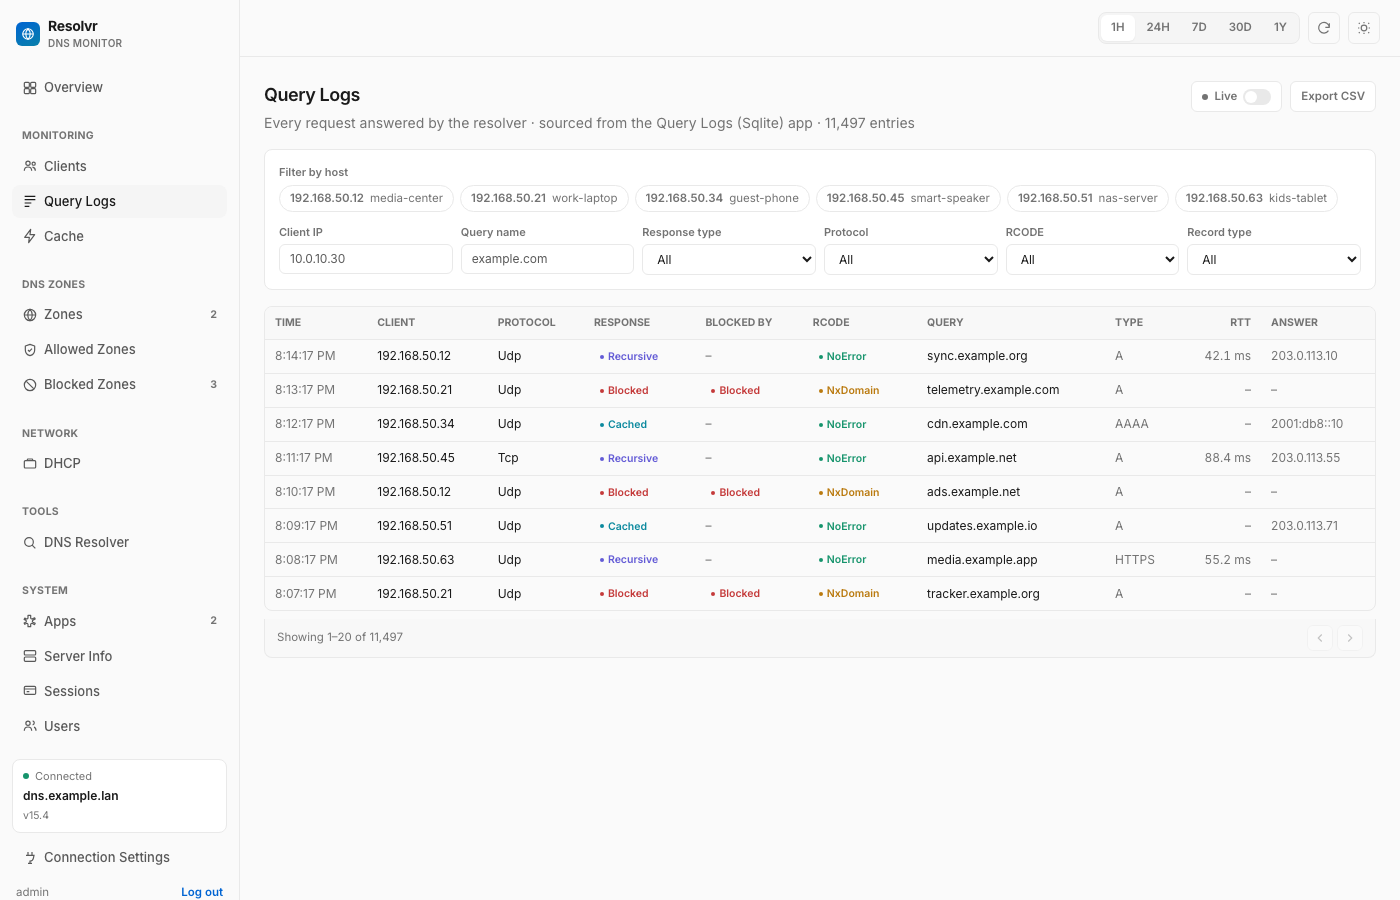
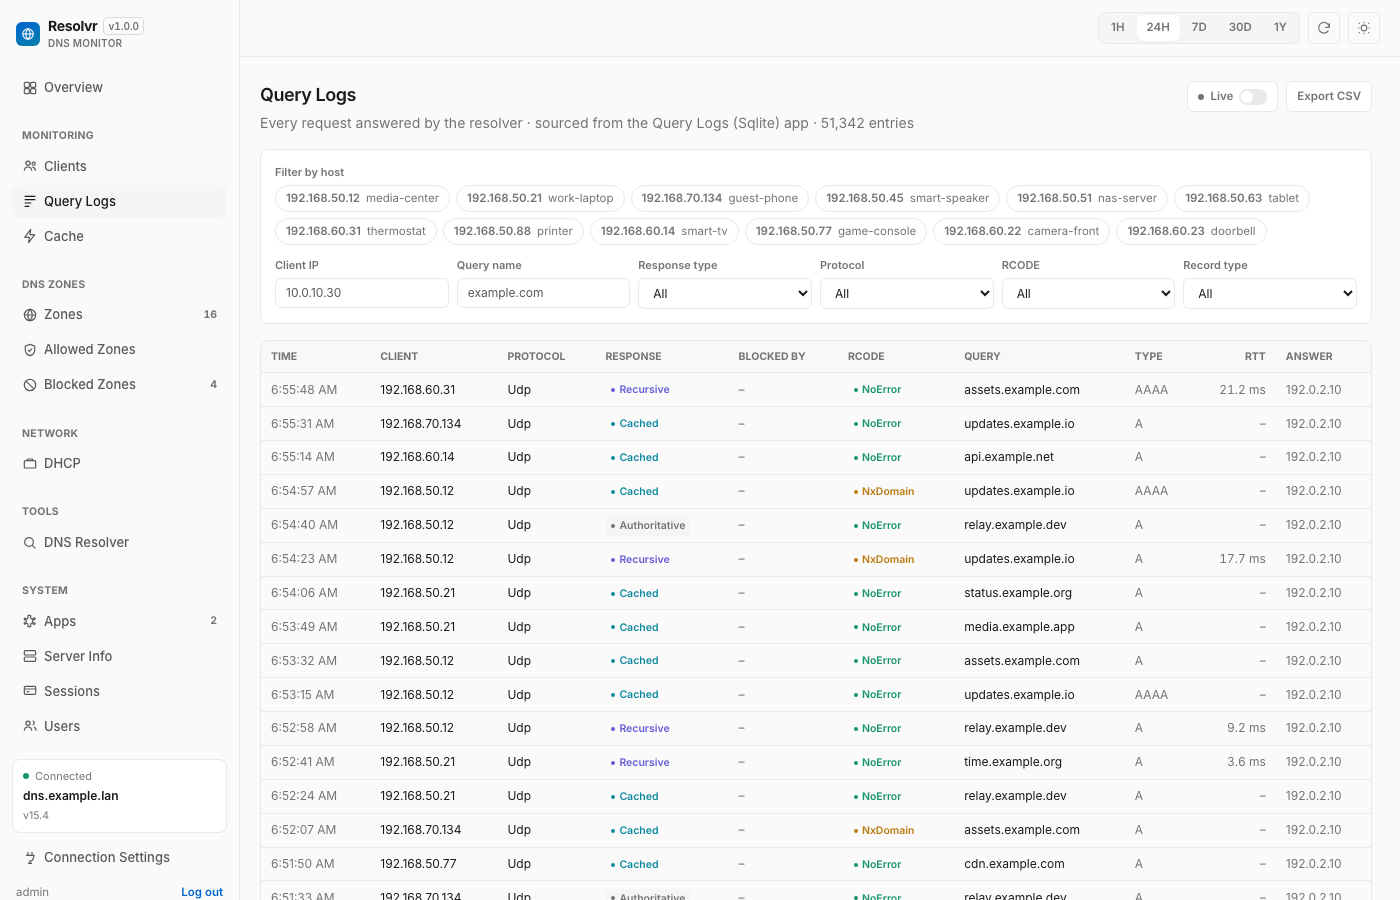
Release 1.0.0: version bump, refreshed README and screenshots (fabricated data), major-version image tag

diff --git a/README.md b/README.md
@@ -7,26 +7,38 @@ A monitoring dashboard for [Technitium DNS Server](https://technitium.com/dns/) 
 
 `dns` · `technitium` · `dns-server` · `dashboard` · `self-hosted` · `homelab` · `monitoring` · `dns-monitoring` · `ad-blocking` · `vue3` · `typescript` · `docker` · `sqlite` · `express`
 
-![Overview dashboard](docs/screenshots/overview.png)
+![Overview dashboard, Traffic tab](docs/screenshots/overview.png)
 
 ## What it does
 
-- **Live monitoring** — query volume over time, query types, top clients, top domains, top blocked domains, cache contents, DHCP leases and zones, all read from your Technitium server.
-- **Query Logs** with real filtering — client IP, query name, response type, protocol, RCODE, record type — plus a per-host "allowed vs. blocked" breakdown and a live-tail toggle.
-- **Blocked Zones as an actual tree**, not a flat list — Technitium's blocked-zone API is a tree browser, so Resolvr lazily expands it instead of showing only the misleading top-level labels.
-- **Block list sources** — see and edit the feed URLs your server subscribes to, in one place.
+- **Overview in four tabs**, all read from your Technitium server. Stat tiles above the tabs show change against the previous period.
+  - **Traffic** — queries over time (toggle series, stack allowed vs. blocked, drag to select a window and open it in Query Logs), query types, and a 7-day "when is my network busy" heatmap.
+  - **Resolution** — where answers come from (cache, upstream, blocked, authoritative), response outcomes, upstream response time, and a flow diagram of how queries get resolved.
+  - **Top lists** — top clients, top domains, top blocked domains.
+  - **Infrastructure** — DHCP scope usage, zones by type, cache size over time.
+
+  Every chart is clickable and jumps to Query Logs filtered to what you clicked.
+- **Clients** — pick any device and see its queries, block rate, DHCP lease, activity, top and blocked domains, protocols and latest queries. A traffic-share bar and a recent-activity grid show who is busy; search, filter (heavy blocking, rate limited, new, quiet) and sort the list.
+- **Query Logs** with real filtering — client IP, query name, response type, protocol, RCODE, record type, and a time window — plus a per-host "allowed vs. blocked" breakdown, CSV export and a live-tail toggle.
+- **Blocked Zones** — a status card showing when the block lists were last updated and when the next update is, with an **Update now** button and a history of how many domains the lists held after each refresh. Below it, three tabs: **Feeds** (add, remove, reorder and group the feeds you subscribe to, with one save bar), **Your domains** (a searchable list of domains you block yourself, with paste-a-list and undo), and **Check a domain** (asks your server whether a name is blocked, and which feed blocked it).
 - **Its own users and roles** — Admins can manage users, edit the Technitium connection, and use the handful of mutating actions below; Viewers get full read access to every monitoring page and nothing else.
-- **A set of deliberate, narrow admin actions** on top of an otherwise read-only design: flush the DNS cache, force a block-list update, add/remove a blocked domain, edit block list source URLs, revoke a stale session, uninstall an app, and manage simple host-to-IP mappings (create a zone, add an A/AAAA record, delete the zone — the same pattern as AdGuard Home's "DNS rewrites"). Each one is a single hardcoded call to a specific Technitium endpoint, gated to the admin role, and confirmed before it runs — never a general write proxy.
+- **A set of deliberate, narrow admin actions** on top of an otherwise read-only design: flush the DNS cache, force a block-list update, add/remove a blocked domain, edit block list feeds, revoke a stale session, uninstall an app, and manage simple host-to-IP mappings (create a zone, add an A/AAAA record, delete the zone — the same pattern as AdGuard Home's "DNS rewrites"). Each one is a single hardcoded call to a specific Technitium endpoint, gated to the admin role, and confirmed before it runs — never a general write proxy.
 
 Resolvr never touches anything on your DNS server beyond that short, explicit list of admin actions — every other page only reads. A Viewer account can't use any of them.
+
+The query-based panels (Resolution, Clients, Query Logs) need one of Technitium's query-logging apps installed on the server; the page tells you when it is missing. A few small things are remembered in your browser rather than on the server: the open tab, the block-list and cache history, and which clients you have already seen.
 
 ## Screenshots
 
 | | |
 |---|---|
-| ![Sign in](docs/screenshots/login.png) | ![Query Logs](docs/screenshots/query-logs.png) |
-| ![Clients](docs/screenshots/clients.png) | ![Blocked Zones tree](docs/screenshots/blocked-zones.png) |
-| ![Users](docs/screenshots/users.png) | |
+| ![Overview: Resolution tab](docs/screenshots/overview-resolution.png) | ![Overview: Infrastructure tab](docs/screenshots/overview-infrastructure.png) |
+| ![Overview: Top lists tab](docs/screenshots/overview-top-lists.png) | ![Clients](docs/screenshots/clients.png) |
+| ![Query Logs](docs/screenshots/query-logs.png) | ![Blocked Zones: Feeds](docs/screenshots/blocked-zones.png) |
+| ![Blocked Zones: Your domains](docs/screenshots/blocked-zones-domains.png) | ![Blocked Zones: Check a domain](docs/screenshots/blocked-zones-check.png) |
+| ![Users](docs/screenshots/users.png) | ![Sign in](docs/screenshots/login.png) |
+
+The screenshots use made-up data: private-range IPs, generic device names, and `example.*` domains.
 
 ## Architecture
 
